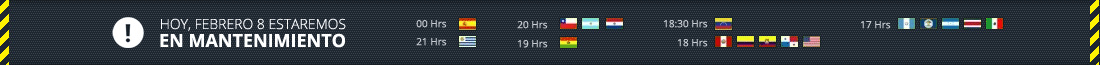
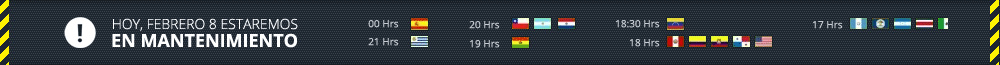
nueva

diff --git a/templates/base.html b/templates/base.html
@@ -47,7 +47,7 @@
 
       </header>
 
-       <div class="maintenance" style="overflow:hidden"><img src="{% static "images/mantenimiento/20130208.png" %}" alt="" style="margin-left:-55px;display:block"></div>
+       <div class="maintenance" style="overflow:hidden"><img src="{% static "images/mantenimiento/20130208.png" %}" alt="" style="display:block"></div>
 
     <a href="https://mejorando.la/cursos/diseno-desarrollo-web-online" class="curso-ad" style="top:130px">
             <span class="ad-title">Curso de Diseño y Desarrollo Web <strong>Online</strong>
